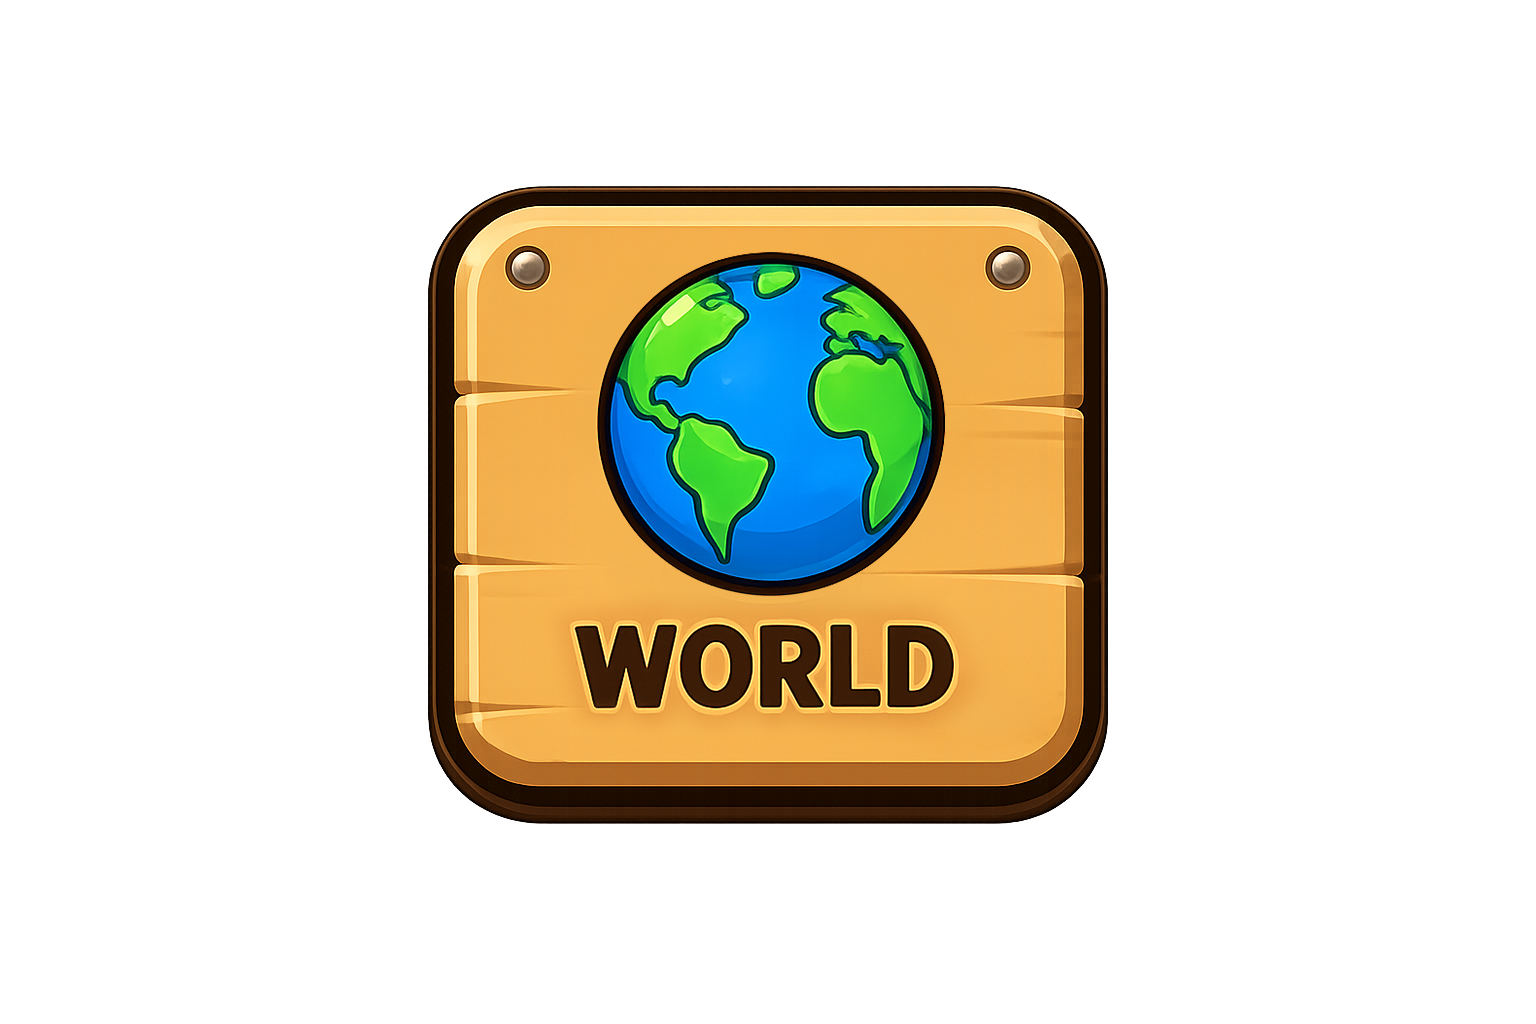
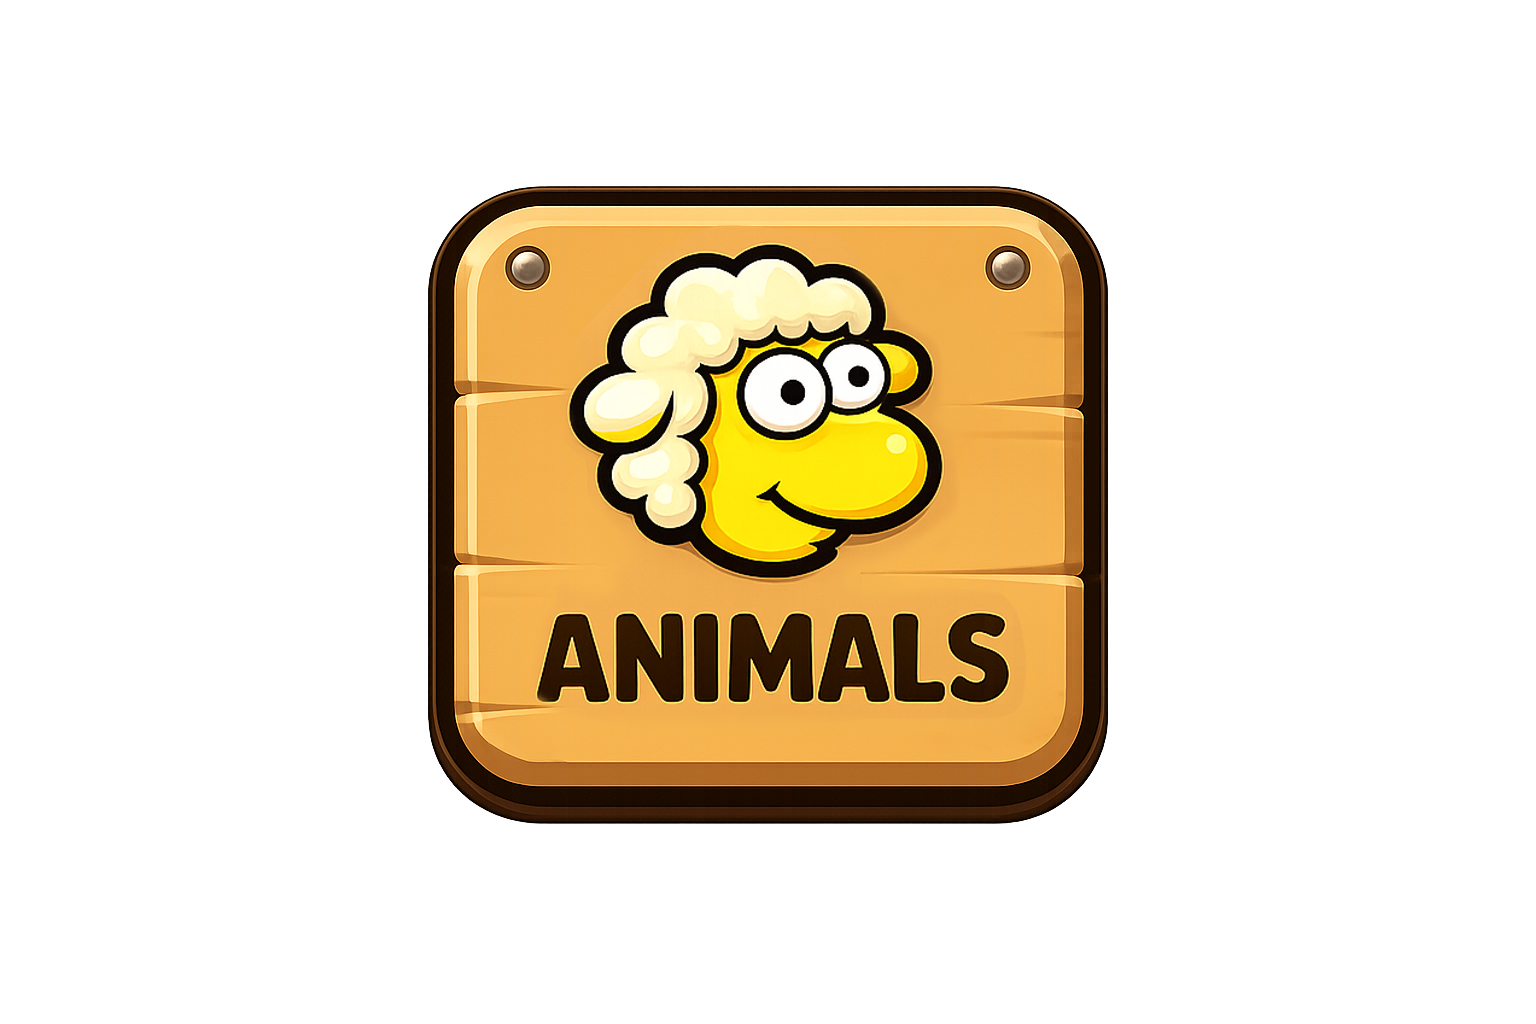
feat: 로비 하단 내비 재배치 + 월드 지도 화면
HOME·ANIMALS·EVENTS·SOON → HOME·WORLD·ANIMALS·EVENTS. SOON은 없앴다.

아트를 열어 보니 디자이너가 이미 새 순서로 올려 둔 상태였다 —
nav-animals가 WORLD, nav-events가 ANIMALS, nav-soon이 EVENTS였다.
파일 이름을 내용에 맞게 한 칸씩 밀었다. 슬롯 id와 그림이 어긋나 있으면
다음 사람이 반드시 틀린다.

월드 지도는 배경 아트 한 장이 전부를 그리고 **누를 수 있는 것은 둘뿐이다** —
우상단 설정과 좌하단 돌아가기. 스테이지 노드·표지판·동물은 전부 그림이다.
막을 캔버스 전체에 깔아 뒤 화면(로비)으로 터치가 새지 않게 했다.
돌아가기는 배경에 이미 그려져 있어 같은 자리를 잘라 슬롯에 올렸다 —
배경만으로는 코드가 그 자리에 무엇이 있는지 알 수 없다.

곁들여 고친 리뷰 지적 둘:
- main.ts가 모든 asset-updated에 리로드를 걸어 오디오 핫스왑을 가로챘다.
  리로드는 언락도 풀어 다음 제스처까지 조용해진다 — audio.*는 건너뛴다
- 로비 카운터 폴백 좌표가 uiLayout.json과 7px 어긋나 있었다

Claude-Session: https://claude.ai/code/session_01TLqJ2uSVXXvnBD5a7ZsnGw

Changed region(s): [[0.3438, 0.2188, 0.6562, 0.7188]]

diff --git a/src/ui/worldScreen.ts b/src/ui/worldScreen.ts
@@ -1,0 +1,111 @@
+// ui/worldScreen.ts — 월드 지도. 로비 하단 WORLD로 들어온다.
+//
+// 화면 전체를 배경 아트 한 장이 그린다. **누를 수 있는 것은 둘뿐이다** —
+// 우상단 설정(톱니)과 좌하단 돌아가기. 스테이지 노드·표지판·동물은 전부 그림이다.
+//
+// 뒤 화면(로비)으로 터치가 새지 않게 막을 통째로 깐다. 막이 없으면 지도 위를
+// 눌렀을 때 아래에 있는 PLAY나 하단 내비가 눌린다.
+import { Container, Graphics, Text, type Texture } from "pixi.js";
+import { BASE_W, stageTop, stageHeight, stageLeft, stageWidth, coverBox, fullRect } from "./stage";
+import { fitSprite } from "./skin";
+import { slot, type UiSlot } from "../data/uiLayout";
+import { buzz } from "./settings";
+import { playSfx } from "./audio";
+import { openSettings, type SettingsTextures } from "./settingsMenu";
+import { editable, clearEditable } from "./layoutEditor";
+
+const AREA = "world";
+
+export interface WorldTextures {
+  bg?: Texture;
+  back?: Texture;
+  gear?: Texture;
+  ui: SettingsTextures;
+}
+
+/** 월드가 닫히면서 호출자에게 넘기는 결정. lobby는 설정창의 HOME으로 나간 경우다. */
+export type WorldResult = "back" | "lobby";
+
+function box(id: string, fallback: { x: number; y: number; w: number; h: number }): UiSlot {
+  return slot(AREA, id) ?? { id, label: id, ...fallback };
+}
+
+/** 누를 수 있는 자리. 아트가 있으면 그걸 그리고, 없으면 이름이 보이는 폴백을 그린다. */
+function hotspot(b: UiSlot, tex: Texture | undefined, onTap: () => void, fill: number): Container {
+  const c = new Container();
+  c.x = b.x;
+  c.y = b.y;
+
+  if (tex) {
+    const s = fitSprite(tex, b.w, b.h);
+    s.x = b.w / 2;
+    s.y = b.h / 2;
+    c.addChild(s);
+  } else {
+    const g = new Graphics().roundRect(0, 0, b.w, b.h, 10).fill({ color: fill });
+    g.roundRect(2, 2, b.w - 4, b.h - 4, 8).stroke({ width: 2, color: 0xffffff, alpha: 0.18 });
+    c.addChild(g);
+    const t = new Text({
+      text: b.label,
+      style: { fontSize: Math.min(15, b.h * 0.32), fill: 0xfff3dc, fontWeight: "bold" },
+    });
+    t.anchor.set(0.5);
+    t.x = b.w / 2;
+    t.y = b.h / 2;
+    c.addChild(t);
+  }
+  // 투명이어도 히트 판정을 받으려면 실제로 채워야 한다(alpha 0)
+  c.addChild(new Graphics().rect(0, 0, b.w, b.h).fill({ color: 0xffffff, alpha: 0 }));
+
+  editable(AREA, b, c);
+  c.eventMode = "static";
+  c.cursor = "pointer";
+  c.on("pointertap", () => { buzz(); playSfx("audio.sfxTap"); onTap(); });
+  c.on("pointerdown", () => { c.alpha = 0.78; });
+  const up = (): void => { c.alpha = 1; };
+  c.on("pointerup", up);
+  c.on("pointerupoutside", up);
+  return c;
+}
+
+/** 월드 지도를 띄우고 닫힐 때까지 기다린다. */
+export function openWorld(parent: Container, tex: WorldTextures): Promise<WorldResult> {
+  return new Promise<WorldResult>((resolve) => {
+    const root = new Container();
+    parent.addChild(root);
+
+    // 막 — 캔버스 전체를 먹어 뒤 화면으로 터치가 새지 않게 한다.
+    // 지도 위 어디를 눌러도 아무 일이 없어야 하므로 탭 핸들러를 달지 않는다.
+    const veil = new Graphics()
+      .rect(stageLeft(), stageTop(), stageWidth(), stageHeight())
+      .fill({ color: 0x120c06, alpha: 1 });
+    veil.eventMode = "static";
+    root.addChild(veil);
+
+    root.addChild(fullRect(0x241a10)); // 배경 아트가 없어도 캔버스가 비지 않게
+    if (tex.bg) root.addChild(coverBox(tex.bg));
+    root.addChild(
+      new Graphics()
+        .rect(0.5, stageTop() + 0.5, BASE_W - 1, stageHeight() - 1)
+        .stroke({ width: 2, color: 0xc98a3c, alignment: 0 }),
+    );
+
+    let done = false;
+    const finish = (r: WorldResult): void => {
+      if (done) return;
+      done = true;
+      clearEditable(AREA);
+      root.destroy({ children: true });
+      resolve(r);
+    };
+
+    const back = box("back", { x: 17, y: 740, w: 126, h: 35 });
+    root.addChild(hotspot(back, tex.back, () => finish("back"), 0x6b4626));
+
+    // 설정은 로비·인게임과 같은 자리다 — 화면이 바뀌어도 톱니가 움직이지 않아야 한다
+    const gear = box("gear", { x: 400, y: 10, w: 40, h: 40 });
+    root.addChild(hotspot(gear, tex.gear, () => {
+      void openSettings(root, tex.ui).then((r) => { if (r === "lobby") finish("lobby"); });
+    }, 0x4a3320));
+  });
+}

diff --git a/src/ui/lobbyScreen.ts b/src/ui/lobbyScreen.ts
@@ -10,6 +10,7 @@ import { BASE_W, stageTop, stageHeight, coverBox, fullRect } from "./stage";
 import { fitSprite } from "./skin";
 import { openSettings, type SettingsTextures } from "./settingsMenu";
 import { openCollection } from "./collection";
+import { openWorld } from "./worldScreen";
 import { slot, type UiSlot } from "../data/uiLayout";
 import { buzz } from "./settings";
 import { playBgm, playSfx } from "./audio";
@@ -24,6 +25,8 @@ export interface LobbyTextures {
   icons: Record<string, Texture | null>;
   /** 도감에 쓰는 동물 아트 — 시퀀스 */
   animals: Record<string, readonly Texture[]>;
+  /** 월드 지도 화면 */
+  world: { bg?: Texture; back?: Texture };
   ui: SettingsTextures;
 }
 
@@ -132,9 +135,9 @@ export function runLobby(app: Application, profile: Profile, tex: LobbyTextures)
 
     // 코인·젬은 아직 재화 시스템이 없어 0으로 둔다 — 말굽만 실제 값이다
     const counters: Array<[string, { x: number; y: number; w: number; h: number }, number]> = [
-      ["statCoin", { x: 66, y: 49, w: 60, h: 22 }, 0],
-      ["statGem", { x: 179, y: 49, w: 60, h: 22 }, 0],
-      ["statHorseshoe", { x: 292, y: 49, w: 60, h: 22 }, profile.horseshoes],
+      ["statCoin", { x: 67, y: 50, w: 60, h: 22 }, 0],
+      ["statGem", { x: 178, y: 50, w: 60, h: 22 }, 0],
+      ["statHorseshoe", { x: 285, y: 50, w: 60, h: 22 }, profile.horseshoes],
     ];
     for (const [id, fb, value] of counters) layer.addChild(counter(box(id, fb), value));
 
@@ -142,22 +145,24 @@ export function runLobby(app: Application, profile: Profile, tex: LobbyTextures)
     const play = box("play", { x: 138, y: 646, w: 174, h: 54 });
     layer.addChild(hotspot(play, tex.play, () => finish(), 0x3faa48));
 
-    // ── 하단 4종 — HOME·ANIMALS만 동작 ─────────────
+    // ── 하단 4종 — HOME·WORLD·ANIMALS 동작, EVENTS는 목업 ─────
     const home = box("navHome", { x: 18, y: 738, w: 96, h: 50 });
     layer.addChild(hotspot(home, tex.icons.navHome, () => { /* 이미 홈이다 */ }));
 
-    const animals = box("navAnimals", { x: 122, y: 738, w: 96, h: 50 });
+    const world = box("navWorld", { x: 122, y: 738, w: 96, h: 50 });
+    layer.addChild(hotspot(world, tex.icons.navWorld, () => {
+      void openWorld(layer, { ...tex.world, gear: tex.gear, ui: tex.ui }).then((r) => {
+        if (r === "lobby") { /* 이미 로비다 — 월드만 닫힌다 */ }
+      });
+    }));
+
+    const animals = box("navAnimals", { x: 226, y: 738, w: 96, h: 50 });
     layer.addChild(hotspot(animals, tex.icons.navAnimals, () => {
       void openCollection(layer, profile.rescued, tex.animals);
     }));
 
-    for (const [id, fb] of [
-      ["navEvents", { x: 226, y: 738, w: 96, h: 50 }],
-      ["navSoon", { x: 330, y: 738, w: 96, h: 50 }],
-    ] as const) {
-      const b = box(id, fb);
-      layer.addChild(hotspot(b, tex.icons[id], null));
-    }
+    const events = box("navEvents", { x: 330, y: 738, w: 96, h: 50 });
+    layer.addChild(hotspot(events, tex.icons.navEvents, null));
 
     // ── 설정 ────────────────────────────────────
     const gear = box("gear", { x: 396, y: 12, w: 40, h: 40 });

diff --git a/src/main.ts b/src/main.ts
@@ -5,7 +5,7 @@
 // 화면 코드 자체는 ui/boot.ts에 남아 있고 import만 끊었다 — 번들에서는 빠진다.
 import { Application, VideoSource } from "pixi.js";
 import { loadHexAssets } from "./ui/hex/hexAssets";
-import { hexAssetPaths, uiAssetPaths, lobbyAssetPaths, videoAssetPaths } from "./data/hexAssets";
+import { hexAssetPaths, uiAssetPaths, lobbyAssetPaths, worldAssetPaths, videoAssetPaths } from "./data/hexAssets";
 import { loadSlots } from "./ui/skin";
 import { runLobby } from "./ui/lobbyScreen";
 import { parseProfile, serializeProfile, addClear, type Profile } from "./engine/profile";
@@ -68,10 +68,11 @@ async function main(): Promise<void> {
 
   // 로비 ⇄ 스테이지. 클리어하면 다음 스테이지, 실패·재시작이면 같은 스테이지를 다시 준다.
   mark("game");
-  const [hexTextures, uiSlots, lobbySlots] = await Promise.all([
+  const [hexTextures, uiSlots, lobbySlots, worldSlots] = await Promise.all([
     loadHexAssets(hexAssetPaths), // 루프 전 1회 로드 — 매 스테이지 재로드하지 않는다
     loadSlots(uiAssetPaths),
     loadSlots(lobbyAssetPaths),
+    loadSlots(worldAssetPaths),
   ]);
   // 설정창이 쓰는 묶음. 스테이지 화면도 같은 것을 그대로 넘겨받는다.
   const ui = {
@@ -90,10 +91,11 @@ async function main(): Promise<void> {
     icons: {
       topStats: lobbySlots.topStats ?? null,
       navHome: lobbySlots.navHome ?? null,
+      navWorld: lobbySlots.navWorld ?? null,
       navAnimals: lobbySlots.navAnimals ?? null,
       navEvents: lobbySlots.navEvents ?? null,
-      navSoon: lobbySlots.navSoon ?? null,
     },
+    world: { bg: worldSlots.bg, back: worldSlots.back },
     animals: hexTextures.animals,
     ui,
   };
@@ -139,7 +141,11 @@ async function main(): Promise<void> {
 // 에디터에서 에셋을 올리면 이 탭만 새로 뜬다. 에디터 탭은 리로드하지 않는다 —
 // 리로드가 겹치면 방금 올린 이미지 요청이 중단돼 「미업로드」로 오탐한다.
 if (import.meta.hot) {
-  import.meta.hot.on("asset-updated", () => { location.reload(); });
+  // 소리는 audio.ts가 제자리에서 갈아끼운다 — 리로드하면 언락이 풀려 다음 제스처까지 조용해진다
+  import.meta.hot.on("asset-updated", (d: { asset?: string }) => {
+    if (typeof d?.asset === "string" && d.asset.startsWith("audio.")) return;
+    location.reload();
+  });
 }
 
 void main();

diff --git a/src/data/hexAssets.ts b/src/data/hexAssets.ts
@@ -67,9 +67,13 @@ export type UiSlotId = (typeof UI_SLOT_IDS)[number];
 
 export const LOBBY_SLOT_IDS = [
   "bg", "topStats", "play",
-  "navHome", "navAnimals", "navEvents", "navSoon",
+  "navHome", "navWorld", "navAnimals", "navEvents",
 ] as const;
 export type LobbySlotId = (typeof LOBBY_SLOT_IDS)[number];
+
+/** 월드 지도 화면 — 배경 한 장과 돌아가기 버튼. 톱니는 로비 것을 그대로 쓴다. */
+export const WORLD_SLOT_IDS = ["bg", "back"] as const;
+export type WorldSlotId = (typeof WORLD_SLOT_IDS)[number];
 
 function pick<K extends string>(raw: unknown, block: string, keys: readonly K[]): Partial<Record<K, string>> {
   const src = ((raw as Record<string, unknown>)[block] ?? {}) as Record<string, unknown>;
@@ -83,6 +87,7 @@ function pick<K extends string>(raw: unknown, block: string, keys: readonly K[])
 
 export const uiAssetPaths = pick(manifestJson, "ui", UI_SLOT_IDS);
 export const lobbyAssetPaths = pick(manifestJson, "lobby", LOBBY_SLOT_IDS);
+export const worldAssetPaths = pick(manifestJson, "world", WORLD_SLOT_IDS);
 
 // ── 영상 ────────────────────────────────────────────────────
 // 인트로(프롤로그)와 엔딩. 세로 화면 전체를 덮는다. 파일이 없으면 그 단계를 건너뛴다.

diff --git a/docs/ART_SPEC.md b/docs/ART_SPEC.md
@@ -233,8 +233,11 @@ public/assets/hex/bg-panel-right.png   우 패널      (175:288)
 **아트는 시안 그대로 만들어도 된다.** 미구현 버튼은 코드에서 숨기거나 비활성으로
 처리하며, 시간이 남으면 그때 살린다. 아트를 덜어낼 이유는 없다.
 
-**작동할 것:** `PLAY` · `ANIMALS`(도감) · 목장의 구출 동물 · 말굽 재화 · 설정
-**보이되 작동하지 않을 것:** `MISSIONS` · `SHOP` · `WORLD` · `EVENTS` · 코인 · 젬
+**작동할 것:** `PLAY` · `WORLD`(지도) · `ANIMALS`(도감) · 목장의 구출 동물 · 말굽 재화 · 설정
+**보이되 작동하지 않을 것:** `MISSIONS` · `SHOP` · `EVENTS` · 코인 · 젬
+
+> 2026-09-05: 하단 내비가 **HOME · WORLD · ANIMALS · EVENTS**로 바뀌었다.
+> `SOON`은 없앴고 그 자리에 `WORLD`가 들어왔다.
 
 ---
 
@@ -302,7 +305,7 @@ public/assets/hex/bg-panel-right.png   우 패널      (175:288)
 |---|---|
 | `bg.png` | **시안 전체를 담은 한 장** (9:16). 배경·간판·동물·버튼 그림이 다 들어간다 |
 | `btn-play.png` | PLAY 버튼 |
-| `nav-home.png` · `nav-animals.png` · `nav-events.png` · `nav-soon.png` | 하단 4종 |
+| `nav-home.png` · `nav-world.png` · `nav-animals.png` · `nav-events.png` | 하단 4종 — **이 순서다**(HOME·WORLD·ANIMALS·EVENTS) |
 
 > **슬롯마다 따로 판단한다.** 그 슬롯의 파일이 있으면 그걸 그리고, 없으면 코드가
 > 임시 버튼을 그린다. 배경에 버튼이 이미 그려져 있다면 **그 슬롯에도 같은 그림을
@@ -310,6 +313,20 @@ public/assets/hex/bg-panel-right.png   우 패널      (175:288)
 >
 > `bg.png`는 버튼을 뺀 **무대 그림**으로 주는 편이 다루기 쉽다. 버튼은 각자 파일로
 > 올리면 위치·크기를 `/ui.html`에서 자유롭게 조정할 수 있다.
+
+### 월드 지도 — `public/assets/world/`
+
+| 파일 | 내용 |
+|---|---|
+| `bg.png` | **화면 전체 한 장** (9:16). 스테이지 노드·표지판·동물·별 카운터가 다 들어간다 |
+| `btn-back.png` | 좌하단 돌아가기 |
+
+> **누를 수 있는 것은 둘뿐이다** — 우상단 설정(톱니)과 좌하단 돌아가기.
+> 스테이지 노드·표지판·동물은 전부 그림이고 눌러도 아무 일이 없다.
+> 지도 위 어디를 눌러도 뒤 화면(로비)으로 터치가 새지 않는다.
+>
+> 배경이 이미 돌아가기 버튼을 그리고 있으므로 **같은 자리를 잘라** `btn-back.png`로
+> 올려야 한다. 그래야 코드가 그 자리를 안다. 톱니는 로비 것을 그대로 쓴다.
 
 ### 설정창 — `public/assets/ui/`
 
@@ -333,8 +350,8 @@ public/assets/hex/bg-panel-right.png   우 패널      (175:288)
 
 | | 동작 |
 |---|---|
-| **동작함** | PLAY · ANIMALS(도감) · HOME · 설정(톱니) · 설정창 5종 전부(SOUND·MUSIC·VIBRATION·RESUME·HOME) |
-| **목업** | EVENTS · SOON · 코인 · 젬 |
+| **동작함** | PLAY · WORLD(지도) · ANIMALS(도감) · HOME · 설정(톱니) · 설정창 5종 전부(SOUND·MUSIC·VIBRATION·RESUME·HOME) |
+| **목업** | EVENTS · 코인 · 젬 |
 | **뺐음** | MISSIONS · COLLECTION · SHOP · WORLD — 우측 레일 4종은 기능째 제거했다 |
 
 목업 버튼도 **아트는 시안 그대로** 넣으면 된다. 눌러도 반응만 없다.
